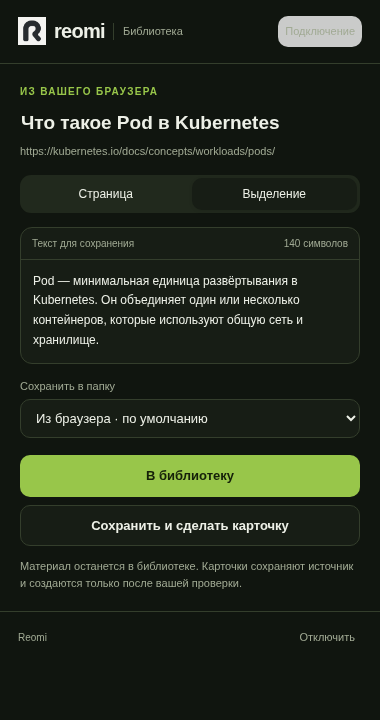
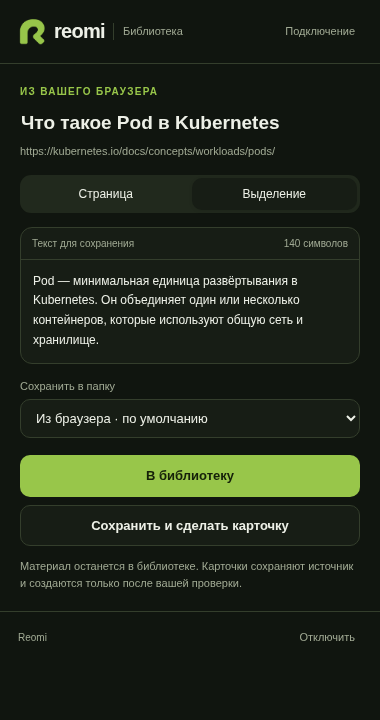
style: use the shared Reomi mark in the capture popup

Changed region(s): [[0.7237, 0.0, 0.9553, 0.0917], [0.0289, 0.0, 0.1447, 0.0611]]

diff --git a/apps/extension/build.ts b/apps/extension/build.ts
@@ -16,6 +16,7 @@ for (const target of ['chromium', 'firefox'] as const) {
   }
   for (const name of ['popup.html','popup.css']) await copyFile(join(root,'src',name),join(out,name));
   await copyFile(join(root,'../web/public/icons/icon-192.png'),join(out,'icon.png'));
+  await copyFile(join(root,'../web/public/icons/reomi-mark.png'),join(out,'brand-mark.png'));
   const manifest = {
     manifest_version: 3, name: 'Reomi — save and study', version, description: 'Save readable pages to your Reomi library and create reviewed cards with their sources.',
     permissions: ['activeTab', 'scripting', 'storage', 'contextMenus'], host_permissions: [`${api}/*`, ...(dev && process.env.REOMI_EXTENSION_TEST_ORIGIN ? [`${new URL(process.env.REOMI_EXTENSION_TEST_ORIGIN).origin}/*`] : [])],
@@ -27,7 +28,7 @@ for (const target of ['chromium', 'firefox'] as const) {
   };
   await writeFile(join(out,'manifest.json'),JSON.stringify(manifest,null,2)+'\n');
   const entries: Record<string, [Uint8Array, { mtime: Date }]> = {};
-  for (const name of ['background.js','capture.js','icon.png','manifest.json','popup.css','popup.html','popup.js']) entries[name] = [new Uint8Array(await readFile(join(out,name))), { mtime: new Date('1980-01-01T00:00:00Z') }];
+  for (const name of ['background.js','brand-mark.png','capture.js','icon.png','manifest.json','popup.css','popup.html','popup.js']) entries[name] = [new Uint8Array(await readFile(join(out,name))), { mtime: new Date('1980-01-01T00:00:00Z') }];
   const zip = join(root,'dist',`reomi-${target}${dev ? '-dev' : ''}-${version}.zip`); await writeFile(zip,zipSync(entries,{level:9}));
   process.stdout.write(`${target}: ${zip}\n`);
 }

diff --git a/apps/extension/src/popup.css b/apps/extension/src/popup.css
@@ -10,3 +10,4 @@ label { display:block; font-size:11px; color:var(--muted); margin:14px 0 5px; } 
 .preview { margin-top:14px; border:1px solid var(--border); border-radius:12px; overflow:hidden; background:var(--surface); } .preview-meta { display:flex; justify-content:space-between; gap:8px; padding:8px 11px; color:var(--muted); font-size:10px; border-bottom:1px solid var(--border); } #excerpt { max-height:150px; overflow:auto; white-space:pre-wrap; overflow-wrap:anywhere; padding:12px; line-height:1.65; font-size:12px; }
 .actions { display:grid; gap:8px; margin-top:17px; } #error { padding:11px 12px; margin-top:14px; border:1px solid var(--border); border-radius:10px; color:var(--error); line-height:1.5; } #retry { margin-top:8px; } .loading { color:var(--muted); padding:25px 0; text-align:center; } footer { display:flex; align-items:center; justify-content:space-between; gap:10px; padding:10px 18px; border-top:1px solid var(--border); font-size:10px; color:var(--muted); } #account { overflow:hidden; text-overflow:ellipsis; white-space:nowrap; } .success-mark { margin:2px 0 16px; display:grid; place-items:center; width:42px; height:42px; border-radius:14px; background:var(--soft); color:var(--accent); font-size:25px; } .sr-only { position:absolute; width:1px; height:1px; margin:-1px; padding:0; overflow:hidden; clip:rect(0,0,0,0); white-space:nowrap; border:0; }
 @media(prefers-reduced-motion:reduce) { * { transition:none!important; } }
+.brand-mark { display:inline-block; width:28px; height:28px; flex-shrink:0; background:var(--accent); mask:url('brand-mark.png') center / 210% no-repeat; -webkit-mask:url('brand-mark.png') center / 210% no-repeat; }

diff --git a/apps/extension/package.test.ts b/apps/extension/package.test.ts
@@ -14,7 +14,7 @@ test('production archives are reproducible, self-contained and grant only the ca
     expect([...manifest.permissions].sort()).toEqual(['activeTab','contextMenus','scripting','storage']);
     expect(manifest.content_scripts).toBeUndefined(); expect(manifest.web_accessible_resources).toBeUndefined();
     expect(manifest.content_security_policy.extension_pages).not.toContain('unsafe-eval');
-    for (const file of ['popup.html','popup.js','popup.css','capture.js','background.js','icon.png']) expect(files[file]!.length).toBeGreaterThan(0);
+    for (const file of ['popup.html','popup.js','popup.css','capture.js','background.js','icon.png','brand-mark.png']) expect(files[file]!.length).toBeGreaterThan(0);
     const js = strFromU8(files['popup.js']!); expect(js).toContain('https://api.reomi.ru'); expect(js).not.toContain('localhost:3000');
     expect(manifest.version).toBe(version);
   }

diff --git a/apps/extension/src/popup.html b/apps/extension/src/popup.html
@@ -1,7 +1,7 @@
 <!doctype html>
 <html lang="ru"><head><meta charset="utf-8"><meta name="viewport" content="width=device-width, initial-scale=1"><title>Reomi</title><link rel="stylesheet" href="popup.css"></head>
 <body>
-  <header><div class="brand"><img src="icon.png" width="28" height="28" alt=""><strong>reomi</strong><span data-i18n="library"></span></div><button id="settings" class="quiet" data-i18n="connection"></button></header>
+  <header><div class="brand"><i class="brand-mark" aria-hidden="true"></i><strong>reomi</strong><span data-i18n="library"></span></div><button id="settings" class="quiet" data-i18n="connection"></button></header>
   <main>
     <section id="setup" hidden>
       <div class="eyebrow" data-i18n="connectTitle"></div><h1 data-i18n="collect"></h1><p class="muted" data-i18n="connectHint"></p>
